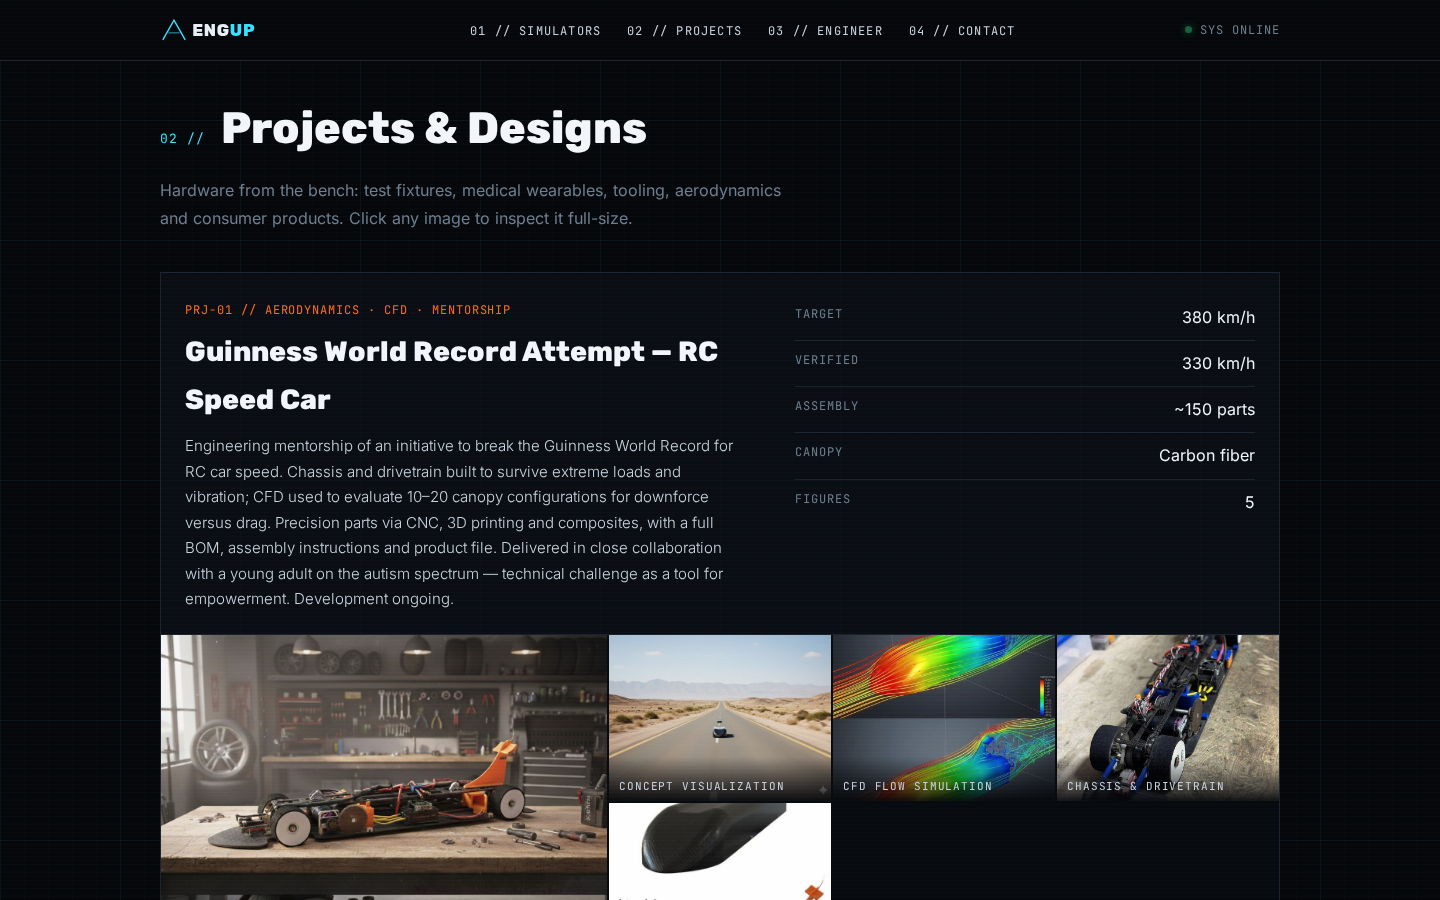
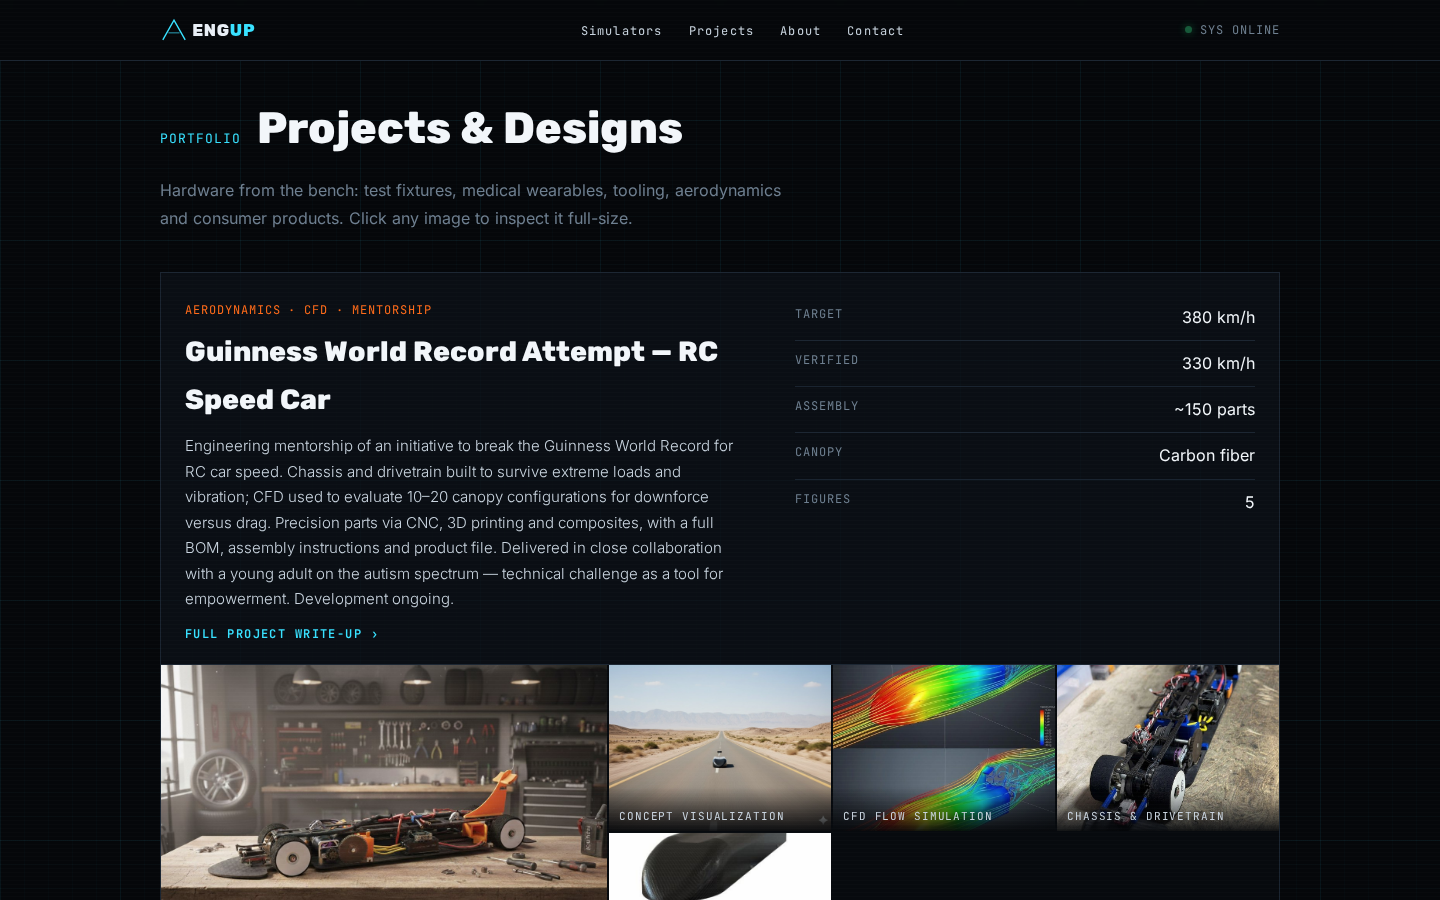
Remove section numbering, full timeline, skills, languages, race car write-up

diff --git a/index.html b/index.html
@@ -76,11 +76,18 @@ footer{border-top:1px solid var(--ln);padding:26px 0}footer .w{display:flex;just
 .lb .x{top:10px;right:10px}.lb .pv{left:10px;top:50%}.lb .nx{right:10px;top:50%}
 @media(max-width:820px){.mb{display:block}nav .st{display:none}nav ul.op{display:flex;position:absolute;top:60px;left:0;right:0;flex-direction:column;gap:0;background:#05070Af5;border-bottom:1px solid var(--ln)}nav ul.op a{display:block;padding:16px 20px;border-top:1px solid var(--ln)}.dgh{grid-template-columns:1fr}.dgh>div+div{border-left:0;border-top:1px solid var(--ln)}.gal{grid-template-columns:1fr 1fr}.lb .pv,.lb .nx{top:auto;bottom:14px}.hg,.cols{grid-template-columns:1fr}.hud{max-width:300px;order:-1}.hero{min-height:0;padding-top:40px}nav ul{display:none}.tel{grid-template-columns:1fr 1fr}.tel div:nth-child(2){border-right:0}.tel div:nth-child(-n+2){border-bottom:1px solid var(--ln)}.tel div{padding:14px}.tel .m{font-size:10px;letter-spacing:.04em}.grid{grid-template-columns:1fr}section{padding:64px 0}}
 @media(prefers-reduced-motion:reduce){*{animation:none!important;transition:none!important}.rv{opacity:1;transform:none}html{scroll-behavior:auto}}
+.tl ul{margin:8px 0 0;padding:0;list-style:none}.tl li{font-size:14.5px;font-weight:300;color:var(--tx);padding-left:16px;position:relative;margin:3px 0}.tl li:before{content:"";position:absolute;left:0;top:11px;width:8px;height:1px;background:var(--ac)}
+.dm{display:block;font:500 11px var(--m);letter-spacing:.12em;text-transform:uppercase;color:var(--ac);margin-top:2px}
+.skb{border:1px solid var(--ln);background:var(--p);margin-top:22px;padding:6px 0 12px}.skb h4{margin:0;padding:10px 16px;border-bottom:1px solid var(--ln);color:var(--ac)}
+.bar{padding:10px 16px 0}.bar div{display:flex;justify-content:space-between;font-size:14px}.bar div span:last-child{font-family:var(--m);color:var(--hi)}
+.bar s{display:block;height:3px;background:var(--ln);margin-top:7px;text-decoration:none}.bar s i{display:block;height:100%;background:linear-gradient(90deg,var(--ac),#9feeff);width:0;transition:width 1.4s cubic-bezier(.2,.7,.2,1)}.skb.in .bar s i{width:var(--v)}
+.rm{margin-top:14px;font-size:15px;font-weight:300}.rm summary{cursor:pointer;color:var(--ac);font:600 12px var(--m);letter-spacing:.12em;text-transform:uppercase;list-style:none}.rm h4{color:var(--hi);margin:14px 0 2px;font-family:'Space Grotesk',Rubik,sans-serif;font-size:16px}.rm p{margin:0}
+.sh{display:block!important}.sh .m{display:block;margin-bottom:10px;letter-spacing:.18em}
 </style></head><body>
-<nav><div class="w"><a href="#"><img src="logo.svg" alt="EngUp"></a><ul id="nm"><li><a href="#projects">01 // SIMULATORS</a></li><li><a href="#designs">02 // PROJECTS</a></li><li><a href="#about">03 // ENGINEER</a></li><li><a href="#contact">04 // CONTACT</a></li></ul><span class="st m"><i class="dot"></i>SYS ONLINE</span><button class="mb" id="mb" aria-label="Menu" aria-expanded="false" aria-controls="nm">☰</button></div></nav>
+<nav><div class="w"><a href="#"><img src="logo.svg" alt="EngUp"></a><ul id="nm"><li><a href="#projects">Simulators</a></li><li><a href="#designs">Projects</a></li><li><a href="#about">About</a></li><li><a href="#contact">Contact</a></li></ul><span class="st m"><i class="dot"></i>SYS ONLINE</span><button class="mb" id="mb" aria-label="Menu" aria-expanded="false" aria-controls="nm">☰</button></div></nav>
 <main>
 <header class="hero"><div class="w"><div class="hg"><div>
-<div class="m">MECHANICAL &amp; SYSTEMS ENGINEER · R&amp;D · NPI //</div>
+<div class="m">MECHANICAL &amp; SYSTEMS ENGINEER · R&amp;D · NPI</div>
 <h1>Vitaly Buchatsky<em>ENGINEERING · UP</em></h1>
 <p class="lead"><b>15+ years</b> engineering electromechanical medical devices — from the first SolidWorks sketch to production lines released under <b>ISO 13485, FDA and CE</b>. Today I also build interactive 3D simulators for machines and automation that run right in the browser.</p>
 <a class="btn" href="#projects">Launch simulators ›</a><a class="btn o" href="#designs">View projects</a></div>
@@ -96,32 +103,32 @@ footer{border-top:1px solid var(--ln);padding:26px 0}footer .w{display:flex;just
 </svg></div></div>
 <div class="tel"><div><span class="m">EXPERIENCE</span><b><span class="cnt" data-n="15">15</span><i>+</i> YRS</b></div><div><span class="m">MEDTECH COS.</span><b class="cnt" data-n="4">4</b></div><div><span class="m">QUALITY SYSTEM</span><b>ISO<i> </i>13485</b></div><div><span class="m">REGULATORY</span><b>FDA<i>·</i>CE</b></div></div>
 </div></header>
-<section id="projects"><div class="w"><div class="sh"><span class="m">01 //</span><h2>Engineering Simulators</h2></div><p class="sub">Interactive simulators I built, each documented like a spec sheet. Open one, explode the assemblies and inspect every mechanism yourself.</p><div class="grid" id="grid"></div></div></section>
-<section id="designs"><div class="w"><div class="sh"><span class="m">02 //</span><h2>Projects &amp; Designs</h2></div><p class="sub">Hardware from the bench: test fixtures, medical wearables, tooling, aerodynamics and consumer products. Click any image to inspect it full-size.</p><div id="dgs"></div></div></section>
-<section id="about"><div class="w"><div class="sh"><span class="m">03 //</span><h2>Engineer Profile</h2></div><p class="sub">Systems engineer and R&amp;D / NPI leader: electromechanical medical product design, production-line build-out (leading 7 technicians and 2 engineers at Medasense), ECO and configuration management, and compliance with ISO 13485, FDA and CE.</p>
+<section id="projects"><div class="w"><div class="sh"><span class="m">Interactive</span><h2>Engineering Simulators</h2></div><p class="sub">Interactive simulators I built, each documented like a spec sheet. Open one, explode the assemblies and inspect every mechanism yourself.</p><div class="grid" id="grid"></div></div></section>
+<section id="designs"><div class="w"><div class="sh"><span class="m">Portfolio</span><h2>Projects &amp; Designs</h2></div><p class="sub">Hardware from the bench: test fixtures, medical wearables, tooling, aerodynamics and consumer products. Click any image to inspect it full-size.</p><div id="dgs"></div></div></section>
+<section id="about"><div class="w"><div class="sh"><span class="m">Career</span><h2>Engineer Profile</h2></div><p class="sub">Systems engineer and R&amp;D / NPI leader: electromechanical medical product design, production-line build-out (leading 7 technicians and 2 engineers at Medasense), ECO and configuration management, and compliance with ISO 13485, FDA and CE.</p>
 <div class="cols"><div class="tl">
-<div><span class="m">2021 — NOW</span><b>Medasense</b> · R&amp;D &amp; NPI Leader</div>
-<div><span class="m">2020 — 2021</span><b>Innovalve Bio-Medical</b> · NPI Leader</div>
-<div><span class="m">2012 — 2020</span><b>ART Medical</b> · R&amp;D &amp; NPI Leader</div>
-<div><span class="m">2011 — 2012</span><b>Inseal Medical</b> · Mechanical Engineer</div>
-<div><span class="m">2008 — 2025</span><b>Freelance</b> · R&amp;D / NPI Consultant &amp; SolidWorks Designer</div></div>
+<div><span class="m">2021 — NOW</span><b>Medasense</b> · R&amp;D &amp; NPI Leader<small class="dm">Neurology</small><ul><li>Designing next-generation reusable &amp; disposable medical products</li><li>Project management – creating work plans for complex projects</li><li>Managing ECO processes and configuration management</li><li>Establishing production lines – managing 7 technicians &amp; 2 engineers</li><li>Compliance with ISO 13485, FDA &amp; CE regulatory standards</li></ul></div>
+<div><span class="m">2020 — 2021</span><b>Innovalve Bio-Medical</b> · NPI Leader<small class="dm">Cardiology</small><ul><li>Managing ECO processes and product configuration</li><li>Manufacturing process flow definition and control</li><li>Construction and management of product trees &amp; BOMs</li><li>Writing and guiding work procedures and instructions</li><li>Establishing production lines for complex devices</li></ul></div>
+<div><span class="m">2012 — 2020</span><b>ART Medical</b> · R&amp;D &amp; NPI Leader<small class="dm">Gastroenterology</small><ul><li>NPI Engineer – led disposable products transfer to production</li><li>Development &amp; design of electromechanical ICU medical devices in SolidWorks</li><li>Experience with plastic injection mold fabrication design</li><li>Managing ECO processes</li><li>ISO 13485, FDA &amp; CE compliance</li></ul></div>
+<div><span class="m">2011 — 2012</span><b>Inseal Medical</b> · Mechanical Engineer<small class="dm">Cardiology</small><ul><li>Mechanical engineering of a nitinol implant inserted into arteries</li></ul></div>
+<div><span class="m">2008 — 2025</span><b>Freelance</b> · R&amp;D / NPI Consultant &amp; SolidWorks Designer<small class="dm">R&amp;D &amp; NPI Consulting</small><ul><li>Designing and modeling mechanical systems in SolidWorks for industrial companies</li><li>R&amp;D and NPI consultant for startups</li><li>SolidWorks mentoring for mechanical engineering students</li></ul></div></div>
 <div class="spec">
 <div><span class="m">M.Sc.</span><span>Engineering &amp; Management, Afeka — with honors</span></div>
 <div><span class="m">B.Sc.</span><span>Medical Engineering, Afeka</span></div>
 <div><span class="m">TECH.</span><span>Practical Mechanical Engineer, Shevach Moffet</span></div>
 <div><span class="m">CAD / VIS</span><span>SolidWorks · Keyshot</span></div>
 <div><span class="m">OPS</span><span>Priority ERP · Monday · Visio</span></div>
-<div><span class="m">LANG</span><span>Hebrew · English · Russian</span></div></div></div></div></section>
-<section id="contact"><div class="w"><div class="sh"><span class="m">04 //</span><h2>Open a Channel</h2></div><p class="sub">Bat Yam, Israel · Available for mechanical design, NPI and simulation projects.</p>
+<div><span class="m">LANG</span><span>Hebrew (native) · Russian (native) · English (proficient)</span></div></div><div class="skb"><h4 class="m">Skills &amp; tools</h4><div class="bar"><div><span>SolidWorks</span><span>98%</span></div><s><i style="--v:98%"></i></s></div><div class="bar"><div><span>NPI / R&amp;D Leadership</span><span>95%</span></div><s><i style="--v:95%"></i></s></div><div class="bar"><div><span>Microsoft Office / Visio</span><span>95%</span></div><s><i style="--v:95%"></i></s></div><div class="bar"><div><span>Electromechanical Design</span><span>92%</span></div><s><i style="--v:92%"></i></s></div><div class="bar"><div><span>ISO 13485 / FDA / CE</span><span>90%</span></div><s><i style="--v:90%"></i></s></div><div class="bar"><div><span>Project Management</span><span>88%</span></div><s><i style="--v:88%"></i></s></div><div class="bar"><div><span>Keyshot (Rendering)</span><span>80%</span></div><s><i style="--v:80%"></i></s></div><div class="bar"><div><span>Priority ERP / Monday</span><span>78%</span></div><s><i style="--v:78%"></i></s></div></div></div></div></section>
+<section id="contact"><div class="w"><div class="sh"><span class="m">Contact</span><h2>Open a Channel</h2></div><p class="sub">Bat-Yam, Israel · Available for mechanical design, NPI and simulation projects.</p>
 <div class="cols ct"><div><a href="mailto:vbuchatsky@gmail.com"><span>vbuchatsky@gmail.com</span><span class="m">EMAIL ›</span></a><a href="tel:+972547866830"><span>+972 54 786 6830</span><span class="m">PHONE ›</span></a></div>
 <div><a href="https://vit.base44.app" target="_blank" rel="noopener"><span>Full CV</span><span class="m">CV ›</span></a></div></div></div></section>
 </main>
 <footer><div class="w"><span class="m">© 2026 EngUp · Vitaly Buchatsky</span><span class="m">BUILD 2.0 · TLV 32.0°N 34.7°E</span></div></footer>
 <script src="projects.js"></script><script src="designs.js"></script>
 <script>
-const g=document.getElementById('grid');g.innerHTML=PROJECTS.map((p,i)=>`<article class="card" style="--c:${p.color||'#38E1FF'}"><div class="ch"><span class="m">MOD-${String(i+1).padStart(2,'0')}</span><span class="m">${p.tag||''}</span></div><a class="im" href="${p.url}" target="_blank" rel="noopener"><img src="${p.img}" alt="${p.title}" loading="lazy"></a><div class="cb"><h3>${p.title}</h3><p>${p.desc}</p><a class="btn" href="${p.url}" target="_blank" rel="noopener">Launch simulator ›</a></div></article>`).join('')+`<div class="add m">MOD-${String(PROJECTS.length+1).padStart(2,'0')} // IN DEVELOPMENT</div>`;
+const g=document.getElementById('grid');g.innerHTML=PROJECTS.map((p,i)=>`<article class="card" style="--c:${p.color||'#38E1FF'}"><div class="ch"><span class="m">Simulator</span><span class="m">${p.tag||''}</span></div><a class="im" href="${p.url}" target="_blank" rel="noopener"><img src="${p.img}" alt="${p.title}" loading="lazy"></a><div class="cb"><h3>${p.title}</h3><p>${p.desc}</p><a class="btn" href="${p.url}" target="_blank" rel="noopener">Launch simulator ›</a></div></article>`).join('')+`<div class="add m">Next module · in development</div>`;
 const esc=t=>String(t).replace(/[&<>"]/g,c=>({'&':'&amp;','<':'&lt;','>':'&gt;','"':'&quot;'}[c]));
-const FLAT=[];document.getElementById('dgs').innerHTML=DESIGNS.map(d=>`<article class="dg" style="--c:${d.color}"><div class="dgh"><div><span class="m id">${d.id} // ${esc(d.tag)}</span><h3>${esc(d.title)}</h3><p>${esc(d.desc)}</p></div><div class="spec">${d.spec.map(([k,v])=>`<div><span class="m">${k}</span><span>${esc(v)}</span></div>`).join('')}<div><span class="m">FIGURES</span><span>${d.imgs.length}</span></div></div></div><div class="gal">${d.imgs.map(([f,c],j)=>{const n=FLAT.push({f,c:`${d.id} · FIG.${String(j+1).padStart(2,'0')}${c?' — '+c:''}`,t:d.title})-1;return `<button data-i="${n}" aria-label="${esc(d.title)} figure ${j+1}"><img src="img/designs/${f}.jpg" alt="${esc(d.title)}${c?' — '+esc(c):''}" loading="lazy">${c?`<span>${esc(c)}</span>`:''}</button>`}).join('')}</div></article>`).join('');
+const FLAT=[];document.getElementById('dgs').innerHTML=DESIGNS.map(d=>`<article class="dg" style="--c:${d.color}"><div class="dgh"><div><span class="m id">${esc(d.tag)}</span><h3>${esc(d.title)}</h3><p>${esc(d.desc)}</p>${d.more?`<details class="rm"><summary>Full project write-up ›</summary>${d.more.map(([h,t])=>`<h4>${esc(h)}</h4><p>${esc(t)}</p>`).join('')}</details>`:''}</div><div class="spec">${d.spec.map(([k,v])=>`<div><span class="m">${k}</span><span>${esc(v)}</span></div>`).join('')}<div><span class="m">FIGURES</span><span>${d.imgs.length}</span></div></div></div><div class="gal">${d.imgs.map(([f,c],j)=>{const n=FLAT.push({f,c:`${j+1} / ${d.imgs.length}${c?' — '+c:''}`,t:d.title})-1;return `<button data-i="${n}" aria-label="${esc(d.title)} figure ${j+1}"><img src="img/designs/${f}.jpg" alt="${esc(d.title)}${c?' — '+esc(c):''}" loading="lazy">${c?`<span>${esc(c)}</span>`:''}</button>`}).join('')}</div></article>`).join('');
 const lb=document.createElement('div');lb.className='lb';lb.setAttribute('role','dialog');lb.innerHTML='<button class="x" aria-label="Close">✕</button><button class="pv" aria-label="Previous">‹</button><img alt=""><p class="m"></p><button class="nx" aria-label="Next">›</button>';document.body.appendChild(lb);
 let cur=0;const show=i=>{cur=(i+FLAT.length)%FLAT.length;const x=FLAT[cur];lb.querySelector('img').src=`img/designs/${x.f}.jpg`;lb.querySelector('img').alt=x.t;lb.querySelector('p').textContent=x.t+' · '+x.c;lb.classList.add('on');document.body.style.overflow='hidden'};
 const hide=()=>{lb.classList.remove('on');document.body.style.overflow=''};
@@ -131,7 +138,7 @@ addEventListener('keydown',e=>{if(!lb.classList.contains('on'))return;if(e.key==
 let tx=0;lb.addEventListener('touchstart',e=>tx=e.touches[0].clientX,{passive:true});lb.addEventListener('touchend',e=>{const d=e.changedTouches[0].clientX-tx;if(Math.abs(d)>50)show(cur+(d<0?1:-1))});
 const mb=document.getElementById('mb'),nm=document.getElementById('nm');mb.onclick=()=>{const o=nm.classList.toggle('op');mb.setAttribute('aria-expanded',o);mb.textContent=o?'✕':'☰'};nm.addEventListener('click',e=>{if(e.target.tagName==='A'){nm.classList.remove('op');mb.textContent='☰';mb.setAttribute('aria-expanded',false)}});
 const red=matchMedia('(prefers-reduced-motion: reduce)').matches;
-document.querySelectorAll('.sh,.sub,.card,.add,.tl div,.cols>.spec,.ct a,.tel,.dg').forEach(e=>e.classList.add('rv'));
+document.querySelectorAll('.sh,.sub,.card,.add,.tl div,.cols>div>.spec,.cols>.spec,.skb,.ct a,.tel,.dg').forEach(e=>e.classList.add('rv'));
 const io=new IntersectionObserver(es=>es.forEach(x=>{if(!x.isIntersecting)return;x.target.classList.add('in');io.unobserve(x.target);x.target.querySelectorAll?.('.cnt').forEach(c=>{if(red)return;const n=+c.dataset.n;let t=0;const s=()=>{t++;c.textContent=Math.round(n*t/30);if(t<30)requestAnimationFrame(s)};s()})}),{threshold:.12});
 document.querySelectorAll('.rv').forEach(e=>io.observe(e));
 if(!red){const h=document.querySelector('.hud');addEventListener('scroll',()=>{h.style.transform=`translateY(${scrollY*.15}px)`},{passive:true})}

diff --git a/designs.js b/designs.js
@@ -1,30 +1,31 @@
 // Projects & Designs. Add a project: push an object; images go in img/designs/
 window.DESIGNS = [
- { id:"PRJ-01", title:"Guinness World Record Attempt — RC Speed Car", tag:"Aerodynamics · CFD · Mentorship", color:"#FF6B1A",
+ { id:"p1", title:"Guinness World Record Attempt — RC Speed Car", tag:"Aerodynamics · CFD · Mentorship", color:"#FF6B1A",
    spec:[["TARGET","380 km/h"],["VERIFIED","330 km/h"],["ASSEMBLY","~150 parts"],["CANOPY","Carbon fiber"]],
    desc:"Engineering mentorship of an initiative to break the Guinness World Record for RC car speed. Chassis and drivetrain built to survive extreme loads and vibration; CFD used to evaluate 10–20 canopy configurations for downforce versus drag. Precision parts via CNC, 3D printing and composites, with a full BOM, assembly instructions and product file. Delivered in close collaboration with a young adult on the autism spectrum — technical challenge as a tool for empowerment. Development ongoing.",
+   more:[["The engineering challenge","At speeds exceeding 300 km/h, the primary challenge in a scale model vehicle is maintaining aerodynamic stability and downforce while minimizing drag."],["Mechanical design","Developing chassis and drivetrain systems capable of withstanding extreme loads and vibrations. The complex assembly consists of approximately 150 components."],["Aerodynamics & flow analysis","Conducting CFD simulations to optimize the structure and evaluating 10–20 different canopy configurations. The final canopy was manufactured from carbon fiber to ensure a high strength-to-weight ratio."],["Manufacturing","Managing the transition from design to production of precision parts using CNC, 3D printing, and composite materials."],["Engineering documentation","Established professional documentation standards, including a comprehensive Bill of Materials (BOM), detailed assembly instructions, and a complete Product File."],["Mentorship","Executed in close collaboration with a young adult on the autism spectrum, leveraging technical challenges as a tool for personal empowerment and capability building."]],
    imgs:[["rc-1","Concept visualization"],["rc-2","Concept visualization"],["rc-4","CFD flow simulation"],["rc-5","Chassis & drivetrain"],["rc-3","Prototype"]] },
- { id:"PRJ-02", title:"Reflux Simulation Jig", tag:"ART Medical · Test Equipment", color:"#38E1FF",
+ { id:"p2", title:"Reflux Simulation Jig", tag:"ART Medical · Test Equipment", color:"#38E1FF",
    spec:[["DWG","AFX00-219"],["CLIENT","ART Medical"],["DRAWN","V. Buchatsky · 2019"],["DOC","Assembly + BOM"]],
    desc:"Bench test fixture designed to simulate reflux conditions for device verification. Shown here as a technical assembly view, the released engineering drawing with bill of materials, and the jig in a lab setting.",
    imgs:[["u-jig-render","Technical assembly view"],["reflux-3","Engineering drawing AFX00-219 · BOM"],["reflux-1","Lab setting"],["reflux-2","Device view"]] },
- { id:"PRJ-03", title:"Disposable & Reusable Sensors", tag:"Medical Wearables", color:"#3DFF9A",
+ { id:"p3", title:"Disposable & Reusable Sensors", tag:"Medical Wearables", color:"#3DFF9A",
    spec:[["TYPE","Disposable + reusable"],["FORM","Finger / hand-worn"],["CAD","SolidWorks"],["VIS","Keyshot"]],
    desc:"Family of body-worn medical sensor designs — finger and hand-worn housings, cabled and flex-circuit variants — developed in both disposable and reusable configurations.",
    imgs:[["sensors-1","Finger sensor"],["sensors-3","Hand-worn sensor with cable"],["sensors-2",""],["sensors-4",""],["sensors-5",""],["sensors-6",""],["sensors-7","Flex circuit"],["sensors-8",""],["sensors-9",""],["sensors-10",""],["sensors-11",""],["sensors-12",""]] },
- { id:"PRJ-04", title:"Molds Design for RTV Silicone", tag:"Tooling · Silicone", color:"#B98CFF",
+ { id:"p4", title:"Molds Design for RTV Silicone", tag:"Tooling · Silicone", color:"#B98CFF",
    spec:[["PROCESS","RTV silicone casting"],["SCOPE","Mold design"]],
    desc:"Custom mold design for room-temperature-vulcanizing silicone parts — from CAD mold halves to cast parts.",
    imgs:[["molds-1",""],["molds-2","Mold CAD"],["molds-3",""],["molds-4",""],["molds-5",""]] },
- { id:"PRJ-05", title:"Custom Gym Bag / Organizer", tag:"Consumer Product", color:"#FFC83D",
+ { id:"p5", title:"Custom Gym Bag / Organizer", tag:"Consumer Product", color:"#FFC83D",
    spec:[["TYPE","Consumer product"],["FEATURE","Integrated phone holder"]],
    desc:"Custom-designed gym organizer with an integrated phone holder — product design from concept to visualization.",
    imgs:[["gymbag-1",""],["gymbag-2",""]] },
- { id:"PRJ-06", title:"ART Medical Designs", tag:"ICU Devices · Gastroenterology", color:"#38E1FF",
+ { id:"p6", title:"ART Medical Designs", tag:"ICU Devices · Gastroenterology", color:"#38E1FF",
    spec:[["COMPANY","ART Medical"],["PERIOD","2012 – 2020"]],
    desc:"Electromechanical ICU medical device designs developed in SolidWorks during eight years as R&D and NPI leader at ART Medical.",
    imgs:[["artmed-1","smART set"]] },
- { id:"PRJ-07", title:"Medical Device #1", tag:"Medical Device", color:"#FF4D6D",
+ { id:"p7", title:"Medical Device #1", tag:"Medical Device", color:"#FF4D6D",
    spec:[["DOMAIN","Medical device"]],
    desc:"Medical device housing and product design concept.",
    imgs:[["meddev-1",""],["meddev-2",""]] }
